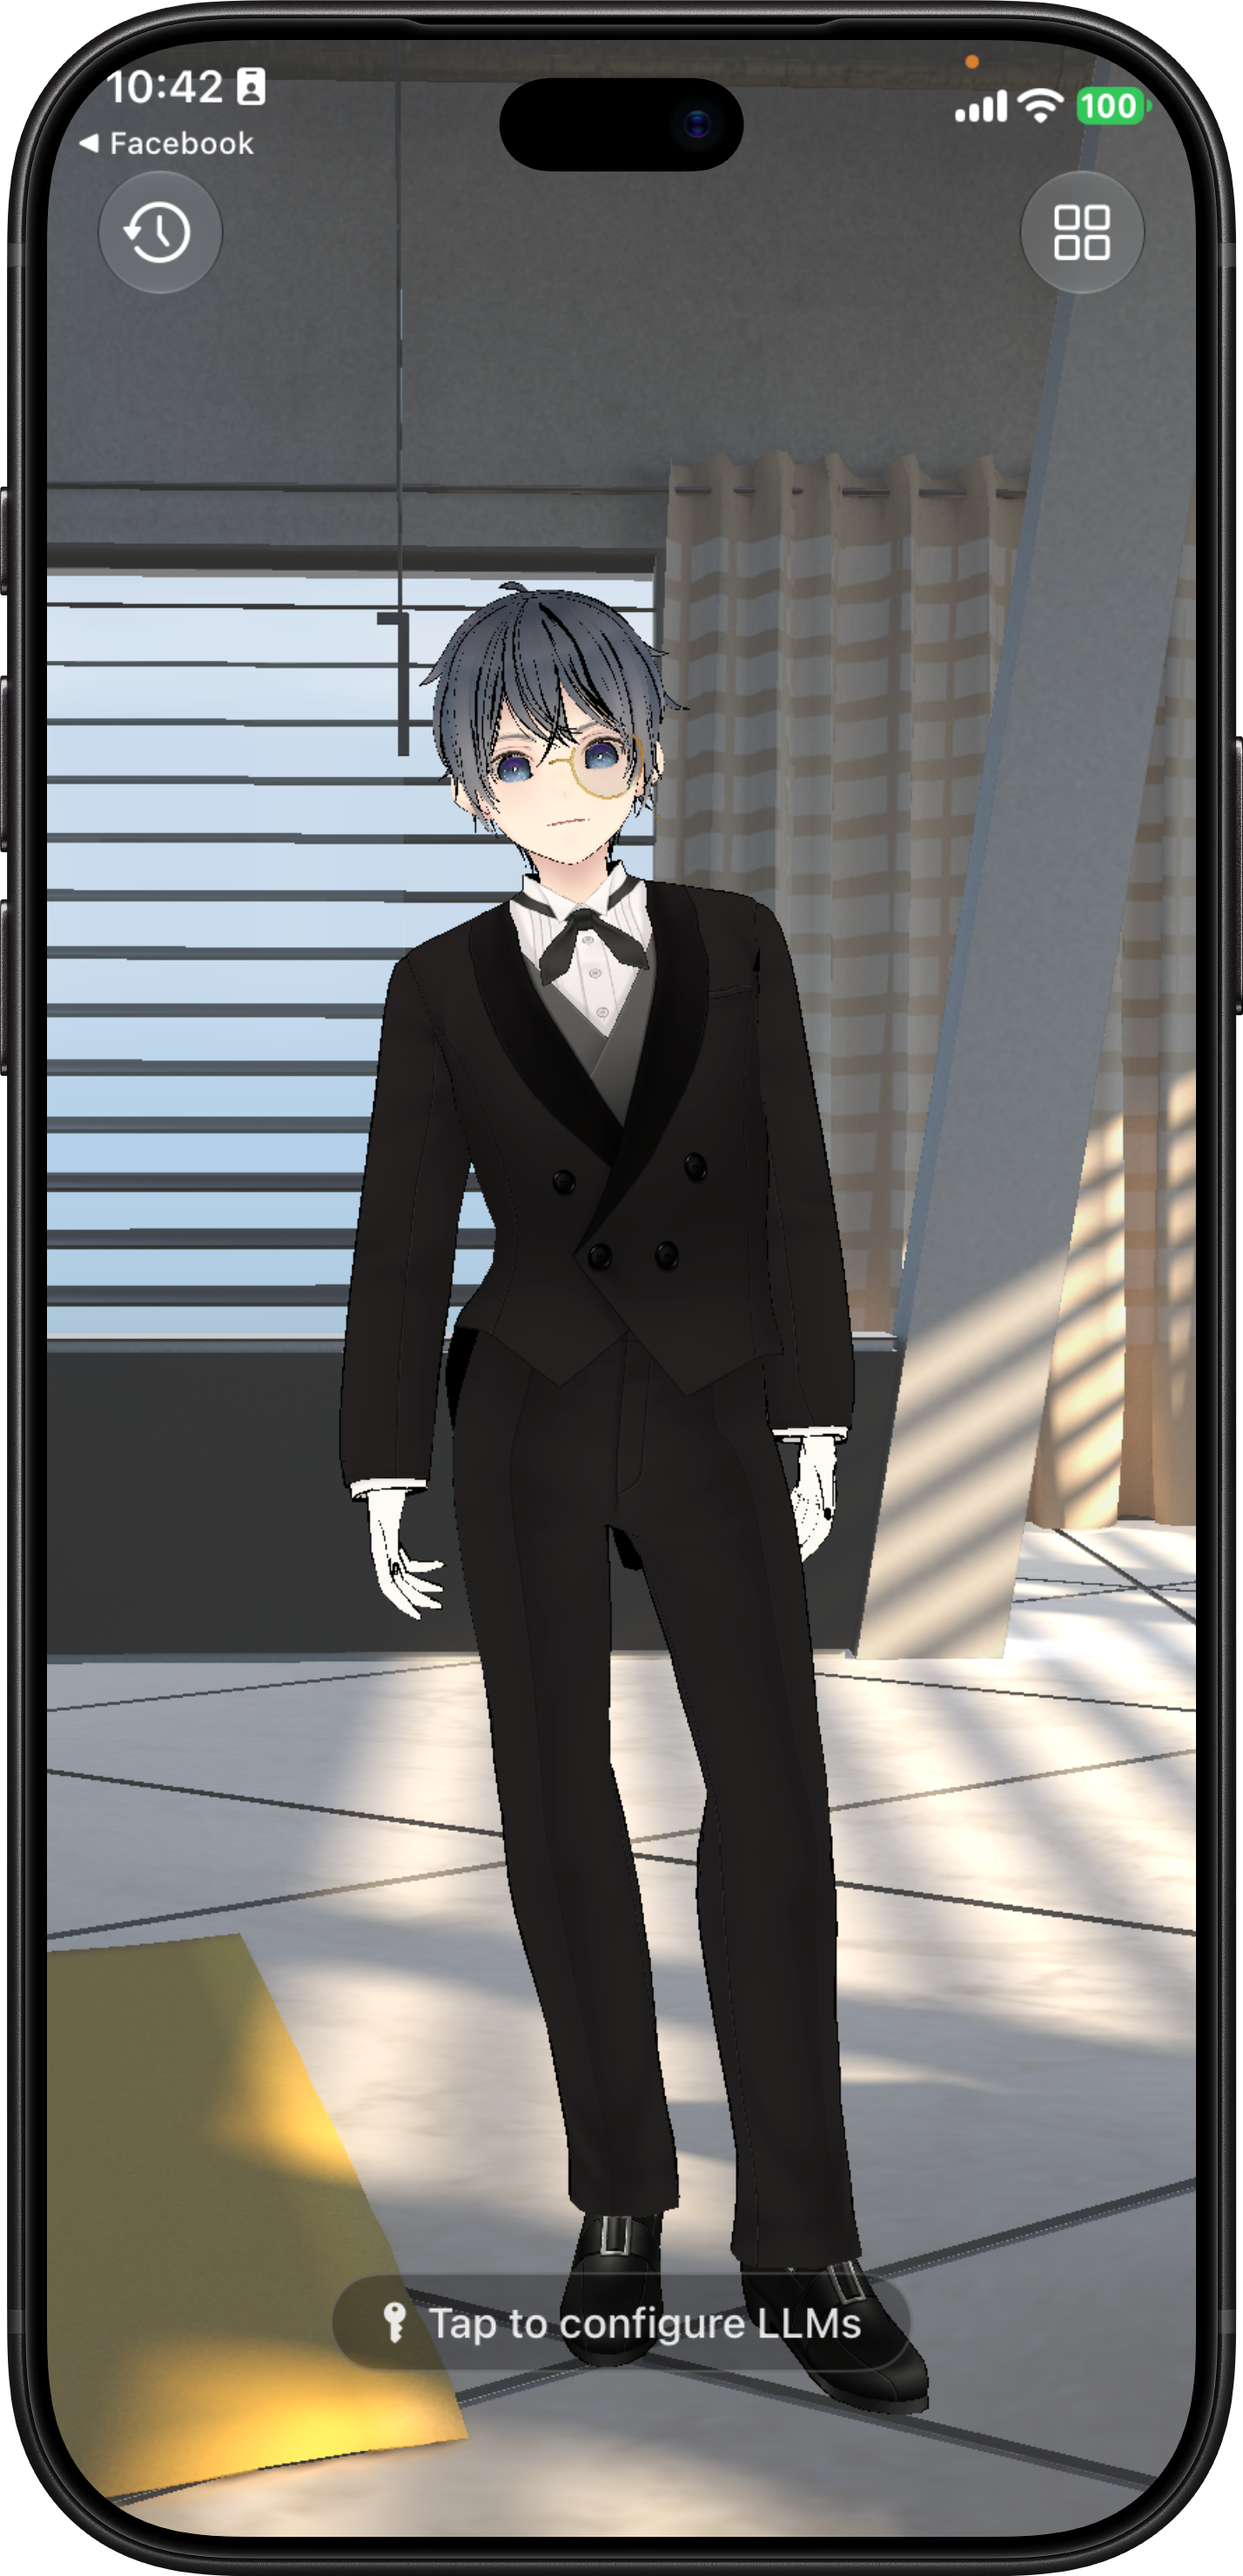
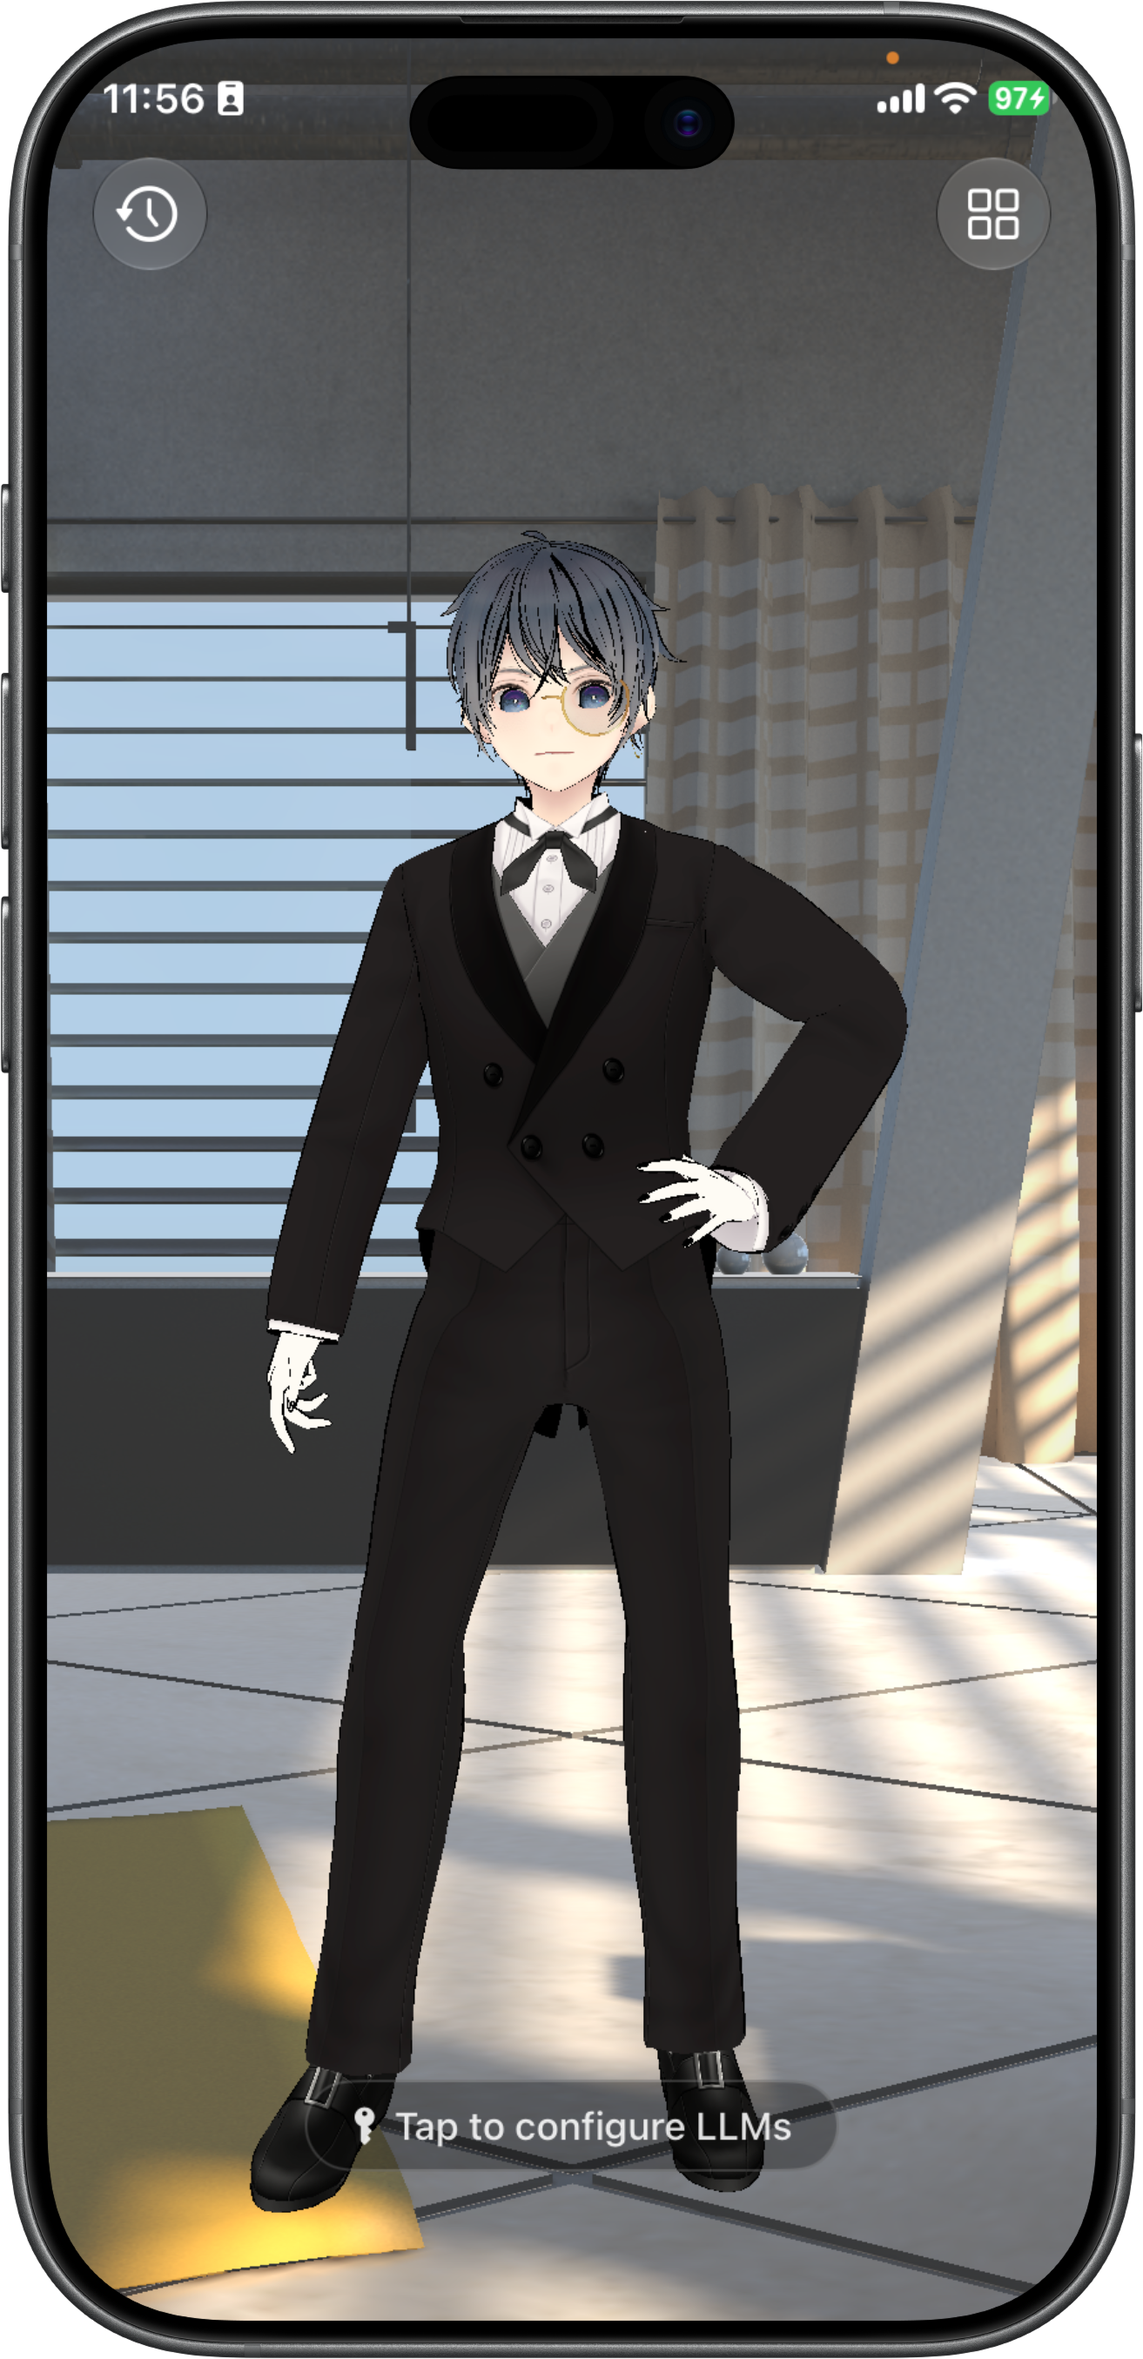
feat: add character customization thumbnails and update male animation catalogue and documentation

diff --git a/NeuraLink/Domain/Entities/AnimationCatalogue.swift b/NeuraLink/Domain/Entities/AnimationCatalogue.swift
@@ -24,7 +24,9 @@ nonisolated enum AnimationCatalogue {
     static let appear = "appear"
 
     /// Everything that plays regardless of gender, for the bundle check.
-    static let sharedClipNames = [appear, "speaking", "talking", "checking_phone", "listen_to_music"]
+    static let sharedClipNames = [
+        appear, "speaking", "talking", "checking_phone", "listen_to_music"
+    ]
 
     // MARK: - Per gender
 
@@ -44,7 +46,7 @@ nonisolated enum AnimationCatalogue {
         case .female:
             return ["default_state", "neutral_2", "neutral_3", "neutral_4", "relax", "waiting"]
         case .male:
-            return ["male_look_around", "male_impatient"]
+            return ["male_look_around", "neutral_4"]
         }
     }
 

diff --git a/docs/LIVING_COMPANION.md b/docs/LIVING_COMPANION.md
@@ -346,7 +346,7 @@ app's. It decides which bundled clips the body draws on
 | Clips | Female | Male |
 |---|---|---|
 | Base loop | `neutral` | `male_powerful` |
-| Random idles | `default_state`, `neutral_2`…`neutral_4`, `relax`, `waiting` | `male_look_around`, `male_impatient` |
+| Random idles | `default_state`, `neutral_2`…`neutral_4`, `relax`, `waiting` | `male_look_around`, `neutral_4` |
 | Resting loop (desk presence, away) | `relax` | `male_powerful` |
 | Photo poses | `cool`, `peace_sign`, `relax`, `stretch` | `cool`, `stretch`; `peace_sign` → `cool`, `relax` → `stretch` |
 | Entrance, talking gestures, phone, listening | shared | shared |

diff --git a/docs/CHARACTER_CUSTOMIZATION.md b/docs/CHARACTER_CUSTOMIZATION.md
@@ -213,7 +213,7 @@ Recovered slots are written under canonical names (`NL_Tops_01_CLOTH`, …).
   across attempts and launches instead of starting an outfit over. A file
   the server does not have (4xx) rests for six hours before it is asked for
   again. A part that has not arrived is fetched when its tile is tapped.
-- **Tile pictures** ship pre-rendered: 131 PNGs in
+- **Tile pictures** ship pre-rendered: 136 PNGs in
   `App/Resources/Custom/Thumbs/`, named `<model>__<category>.png`, covering
   the library and the bundled characters. The picker therefore looks
   complete before any part arrives. Imported characters' tiles are rendered
